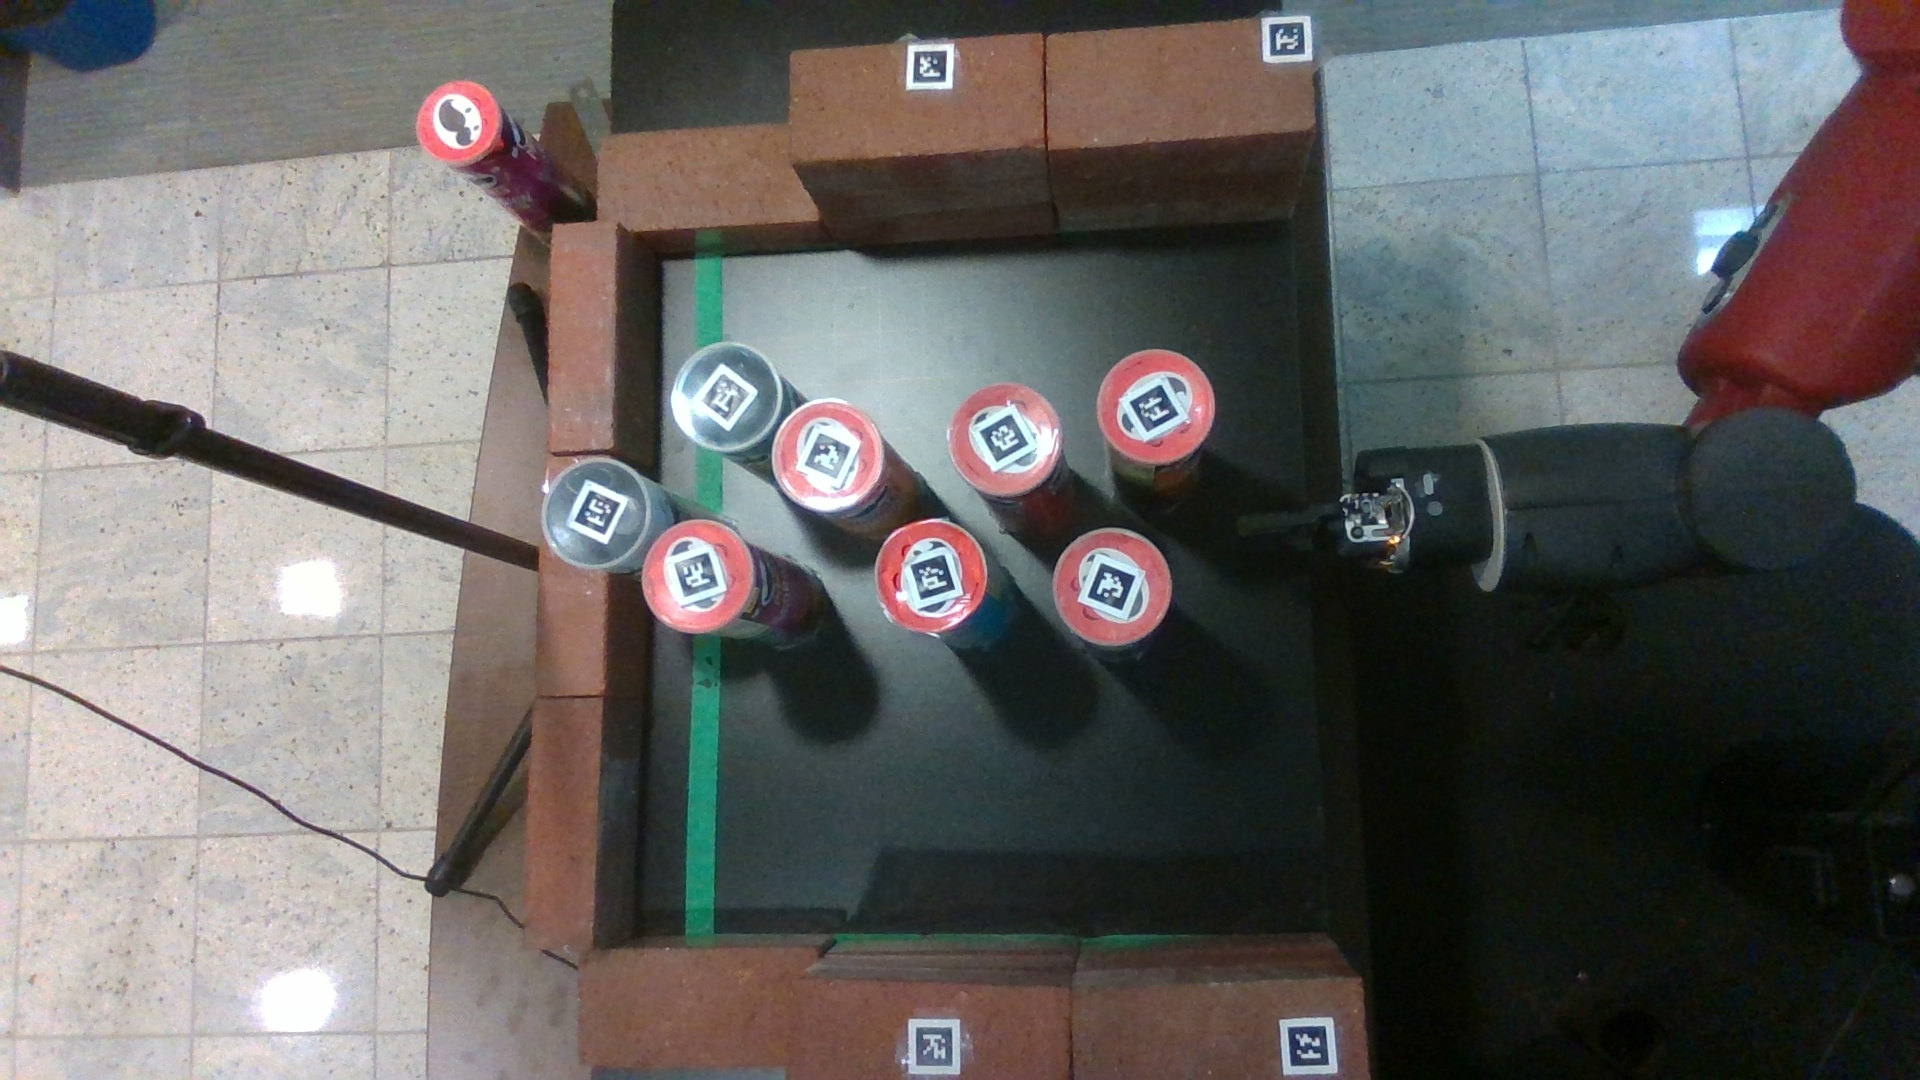
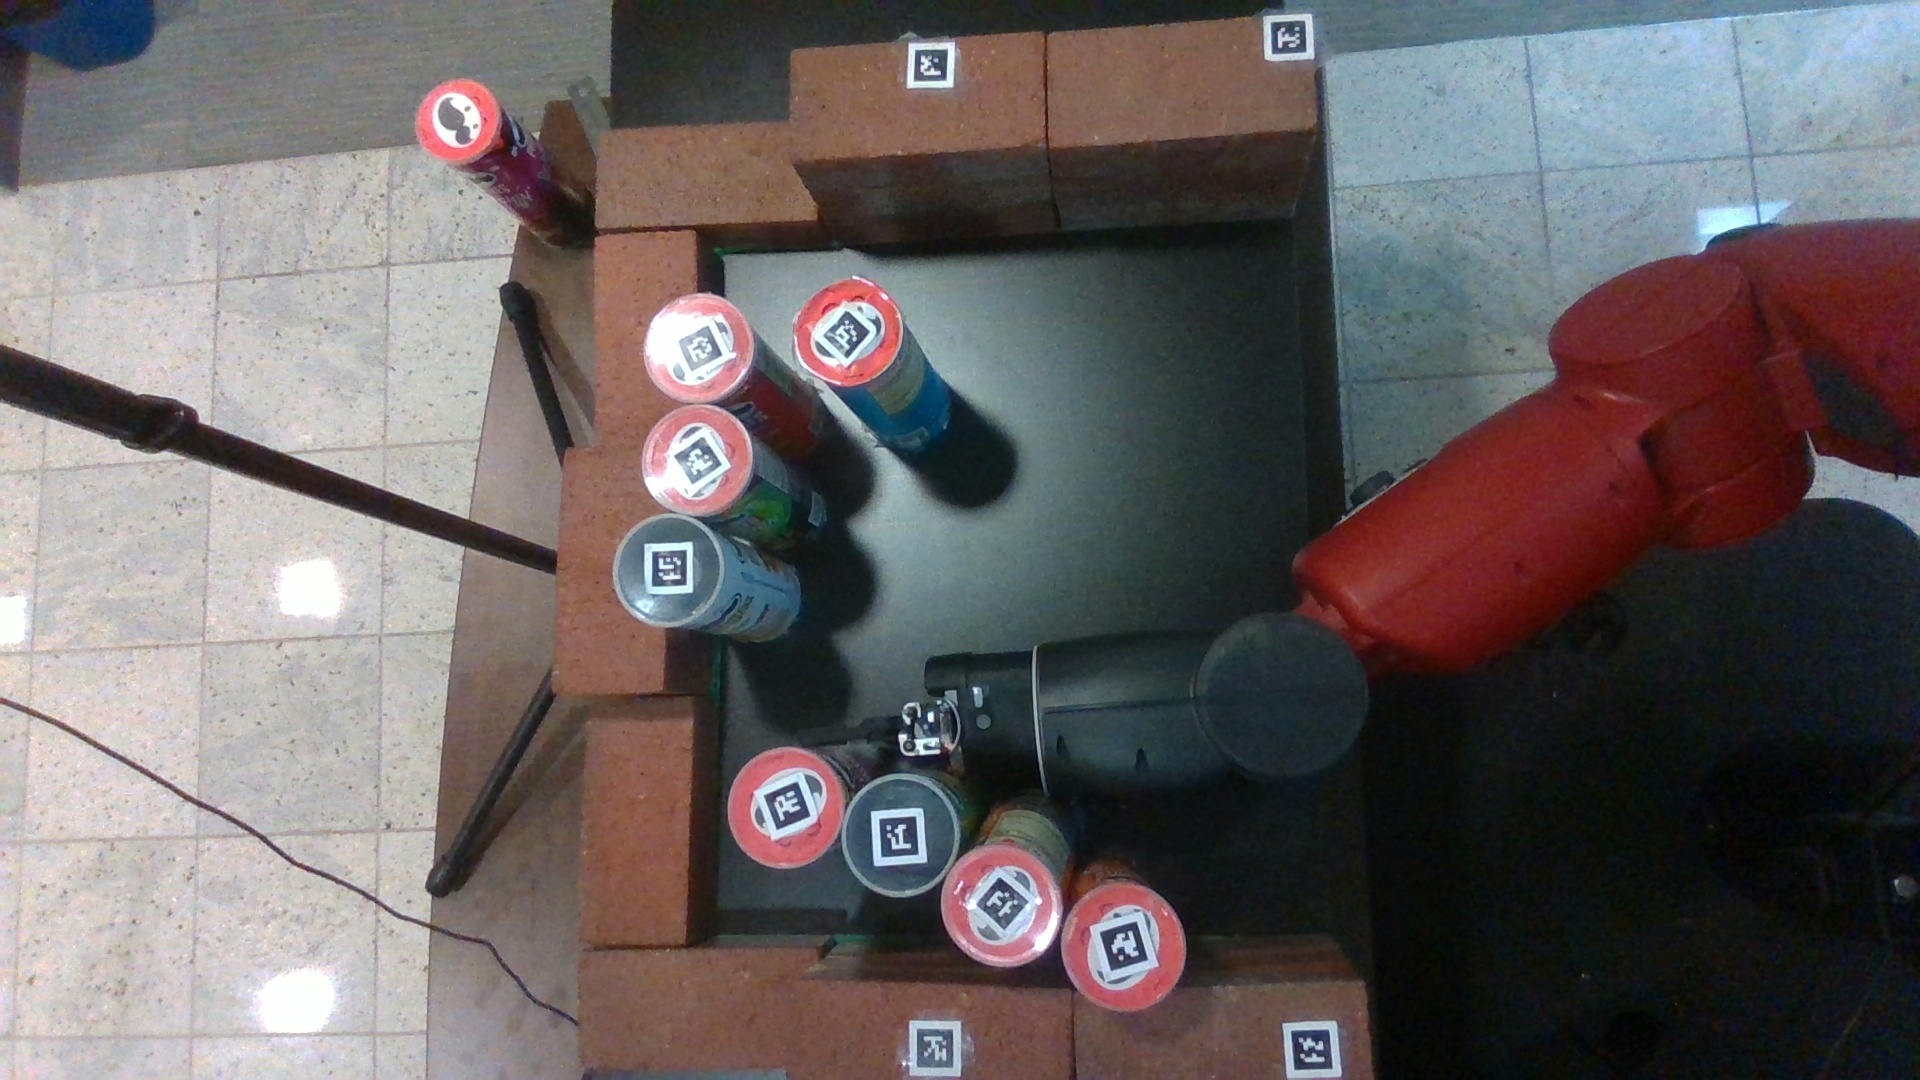
update

diff --git a/src/real_baxter_planit/scripts/grasp_simple.py b/src/real_baxter_planit/scripts/grasp_simple.py
@@ -158,7 +158,7 @@ def grasp_simple(position_tip, position_target, pause=False):
             print('stopped')
             return
 
-    correction_x = 0
+    correction_x = 0.005
 
     x_approach_length = position_target[0] - position_tip[0] + correction_x
     

diff --git a/central_control.py b/central_control.py
@@ -183,7 +183,7 @@ def pipeline(type_of_plan, time_to_plan="unknown", scene="unknown", pause=False)
 
 if __name__ == '__main__':
 
-    scene = "s4" 
+    scene = "s2" 
     pause = True
     
     P = real_calibration()
